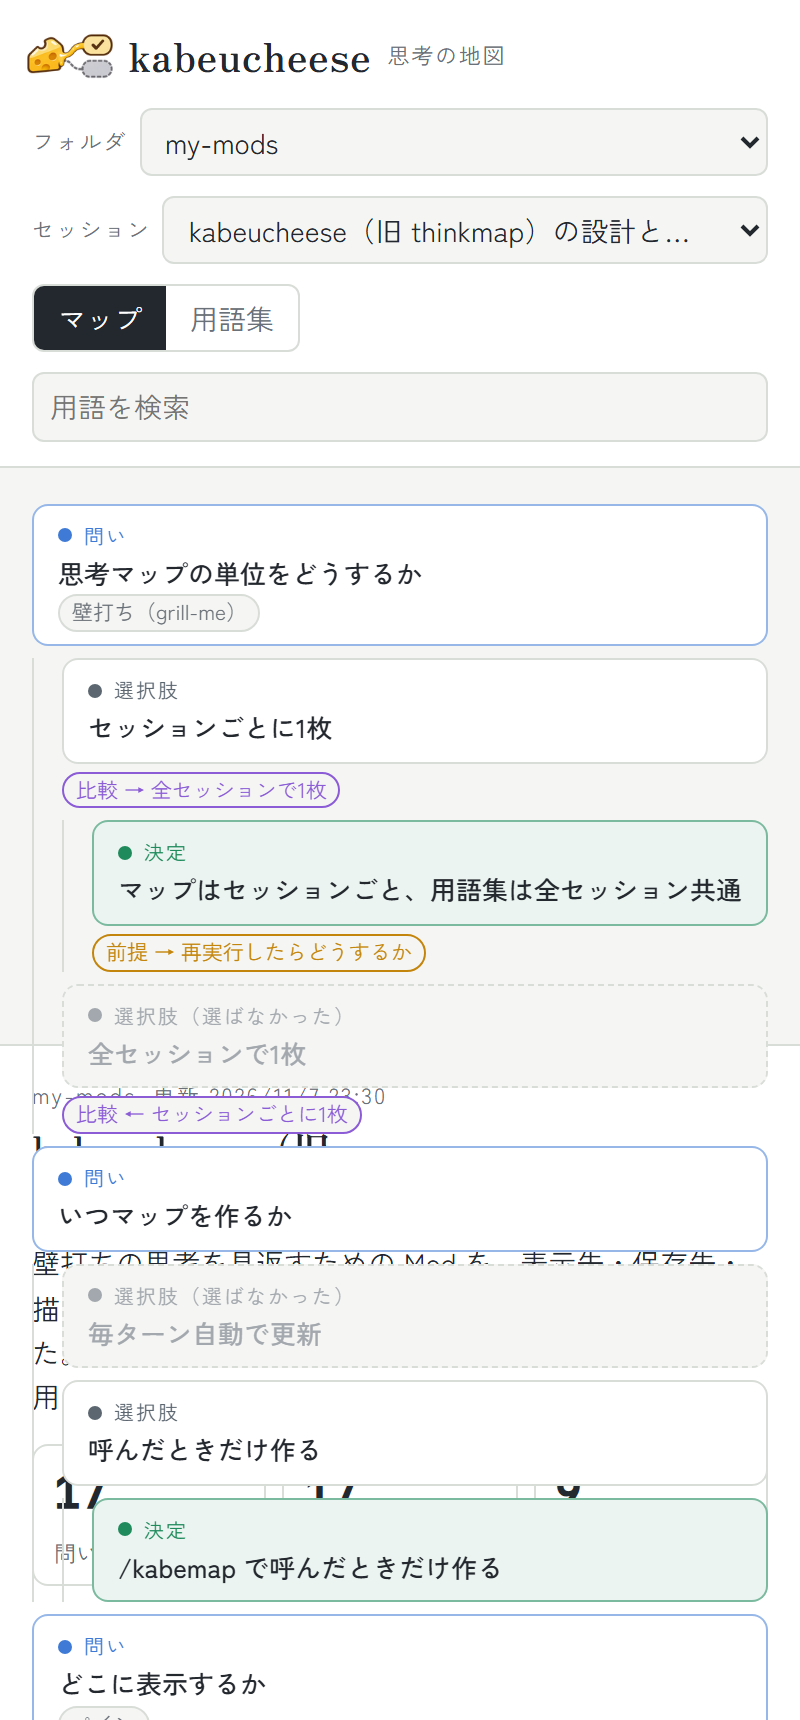
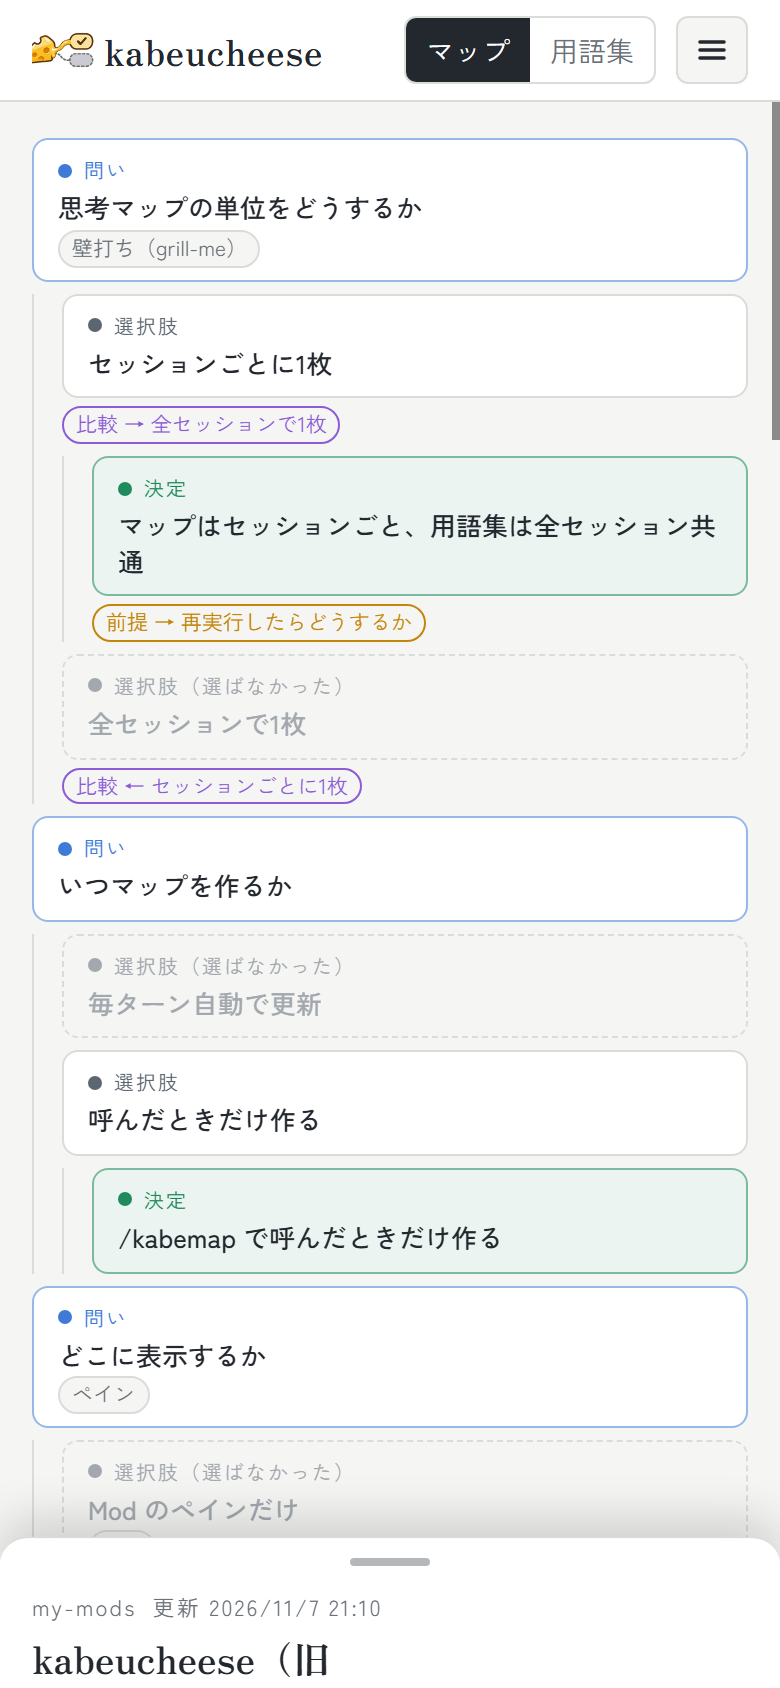
kabeucheese: README のスマホの写真を今の画面に差し替え、メニューを説明する
- docs/mobile.png を今の画面（上の段1行と説明の引き出し）に差し替え、説明の引き出しを開いたところ（mobile-sheet.png）とメニューを開いたところ（mobile-menu.png）を足す
- README の「スマホ」の節に、メニュー（☰）と説明の引き出しの使い方を書く。ダークモードは別の節に分ける

diff --git a/README.md b/README.md
@@ -92,13 +92,25 @@ Claude Code で Claude と壁打ちしたときに、自分がどんな思考を
 
 ![用語集タブ。用語がカードで並び、右に線の種類の凡例がある](docs/glossary.png)
 
-### スマホ・ダークモード
+### スマホ
 
-スマホ幅では縦のツリーに切り替わる。上の段は名前・マップ／用語集・メニューの1行になり、フォルダ・セッション・検索欄は、右上のメニュー（☰）を押すと右から出る引き出しの中にある。論点や用語を押すと、説明が画面の下から引き出しのように出る（指で上下に引いて開け閉めでき、取っ手を押しても開閉する）。ダークモードにも対応している。
+スマホ幅では、論点が縦のツリーに並ぶ。上の段は「名前・マップ／用語集・メニュー（☰）」の1行だけにして、マップを広く見られるようにしている。
+
+- **メニュー（☰）**：右上のボタンを押すと、右から引き出しが出る。中にフォルダ・セッション・用語の検索欄が縦に並ぶ。外側の暗いところか × を押すと閉じる。セッションやフォルダを選んだときも閉じる
+- **説明の引き出し**：画面の下に、取っ手とセッション名の1行だけが出ている。論点や用語を押すと、説明が下からせり上がる。取っ手を指で上下に引くと指についてきて、離したときの位置と速さで開くか閉じるかが決まる。取っ手を押しても開け閉めできる。開いているときは、本文を上へ引くとスクロールになる
 
 <p>
-  <img src="docs/mobile.png" alt="スマホ幅の表示。論点が縦のツリーで並び、関係はチップで示される" width="300">
-  <img src="docs/dark.png" alt="ダークモードの表示" width="520">
+  <img src="docs/mobile.png" alt="スマホ幅のマップ。上の段に名前・マップと用語集の切り替え・メニューのボタンがあり、論点が縦のツリーで並ぶ。画面の下に説明の引き出しの端が見える" width="240">
+  <img src="docs/mobile-sheet.png" alt="論点を押したところ。説明の引き出しが下からせり上がり、決定の中身・つながり・メモ欄が出ている" width="240">
+  <img src="docs/mobile-menu.png" alt="メニューを開いたところ。右から出た引き出しに、フォルダ・セッション・用語の検索欄が並ぶ" width="240">
+</p>
+
+### ダークモード
+
+端末の設定に合わせてダークモードになる。
+
+<p>
+  <img src="docs/dark.png" alt="ダークモードの表示" width="720">
 </p>
 
 ### ペイン
